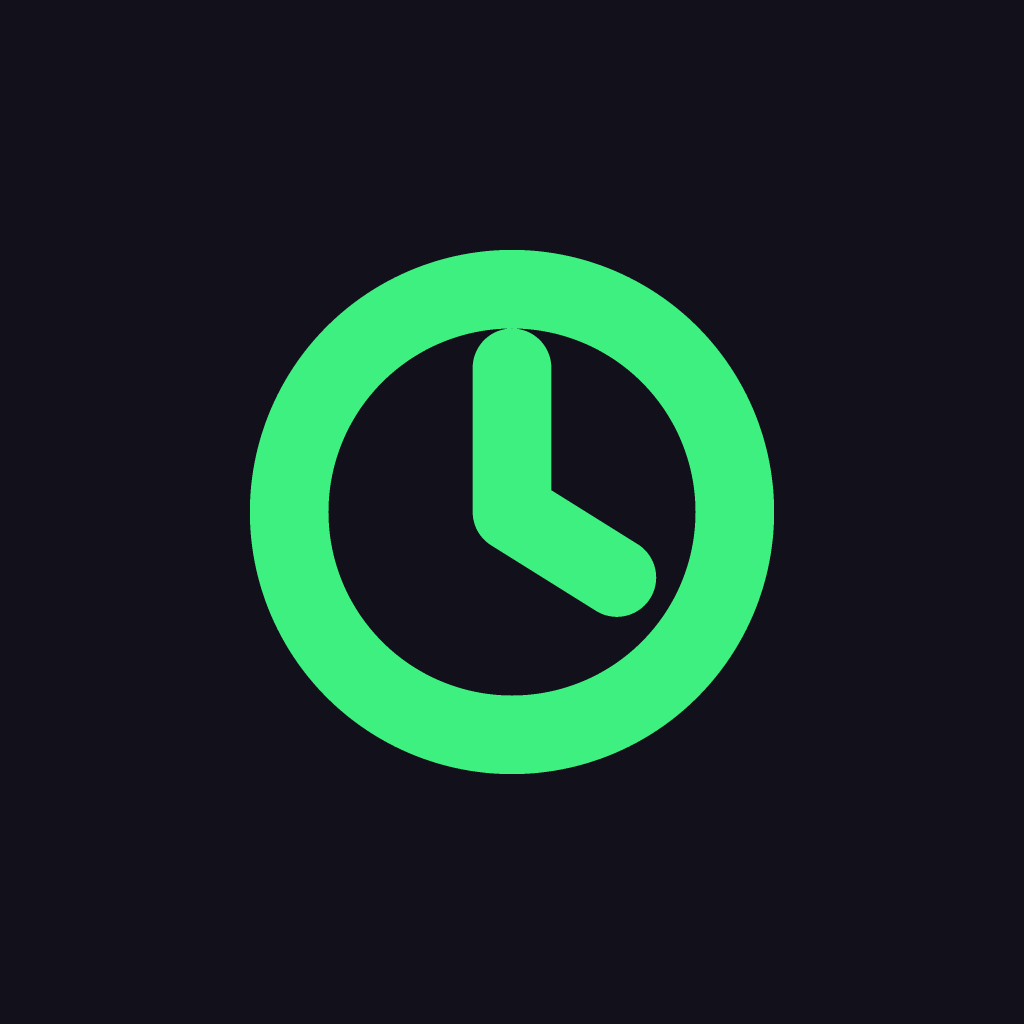
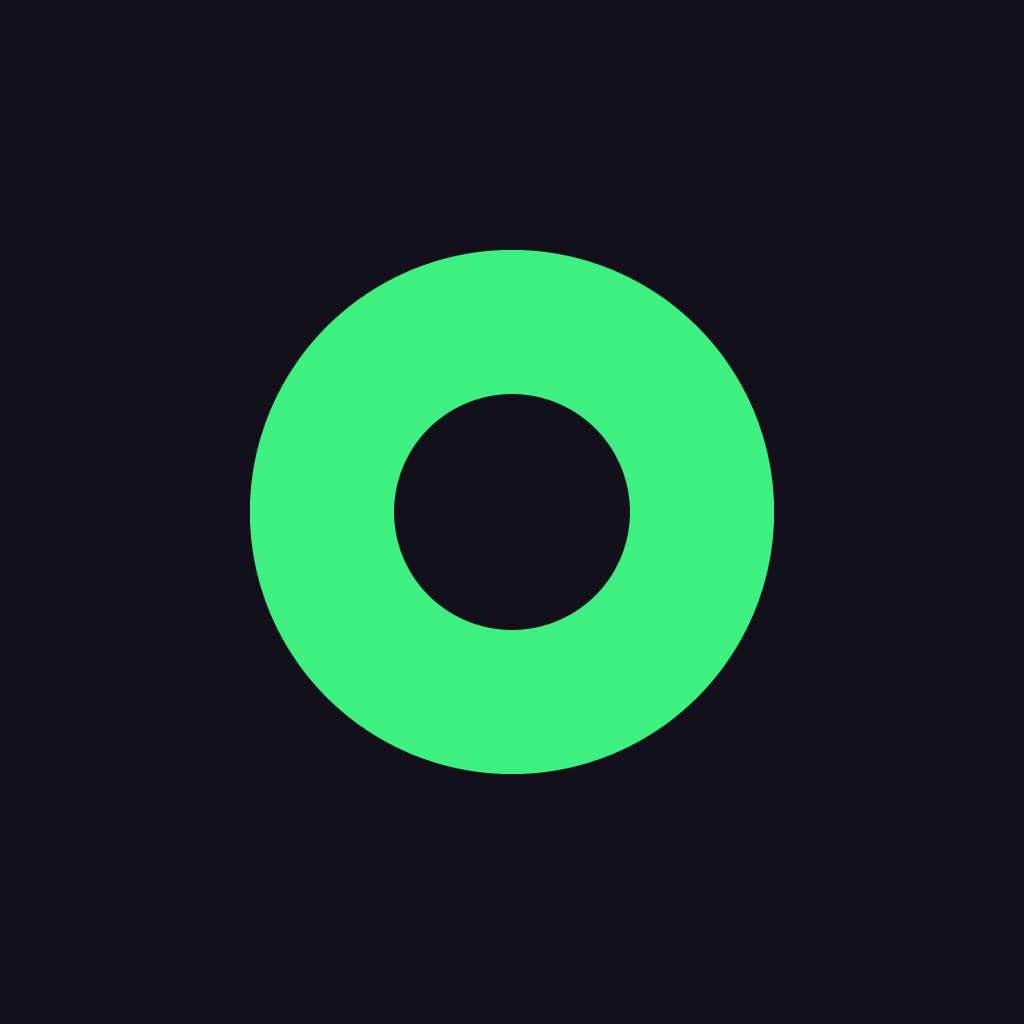
feat: the app mark is a thick ring, like a record button (#73)

Changed region(s): [[0.3125, 0.3125, 0.6875, 0.6875]]

diff --git a/src/app/icons.tsx b/src/app/icons.tsx
@@ -39,15 +39,17 @@ function Glyph({
 }
 
 /**
- * The app mark — a clock face with its two hands, the same shape as the
- * favicon and the install icon, drawn in `currentColor` on nothing.
+ * The app mark — a thick ring with its middle cut out, like a record button,
+ * the same shape as the favicon and the install icon, drawn in
+ * `currentColor` on nothing.
  *
  * The difference from `public/icons/icon.svg` is the point of it: that file
  * paints the mark green on the dark install surface, because an icon's job is
  * to be found on a home screen next to its sibling apps. This one drops the
  * background and swaps the inks for `currentColor`, so inside the app the mark
  * is whatever the element around it is. Geometry is mirrored by hand into
- * `public/icons/icon.svg` and `scripts/generate-icons.mjs`.
+ * `public/icons/icon.svg`, `scripts/generate-icons.mjs` and the dial's
+ * printing in `Dial.tsx`.
  */
 export function AppMarkIcon({ className }: IconProps) {
   return (
@@ -58,13 +60,7 @@ export function AppMarkIcon({ className }: IconProps) {
       aria-hidden="true"
       focusable="false"
     >
-      <circle cx="50" cy="50" r="34" stroke="currentColor" strokeWidth="12" />
-      <path
-        d="M50 50 V28 M50 50 L66 60"
-        stroke="currentColor"
-        strokeWidth="12"
-        strokeLinecap="round"
-      />
+      <circle cx="50" cy="50" r="29" stroke="currentColor" strokeWidth="22" />
     </svg>
   );
 }

diff --git a/src/app/Dial.tsx b/src/app/Dial.tsx
@@ -663,11 +663,9 @@ export function Dial({
           transform={`translate(${C + lockup.markX - 10 * NAME_MARK_SCALE * lockup.scale} ${C - SIGNATURE.name - 50 * NAME_MARK_SCALE * lockup.scale}) scale(${NAME_MARK_SCALE * lockup.scale})`}
           fill="none"
           stroke={face.ink}
-          strokeWidth={12}
-          strokeLinecap="round"
+          strokeWidth={22}
         >
-          <circle cx="50" cy="50" r="34" />
-          <path d="M50 50 V28 M50 50 L66 60" />
+          <circle cx="50" cy="50" r="29" />
         </g>
         <text
           x={C + lockup.textX}

diff --git a/.changes/unreleased/1790940628-ring-mark.md b/.changes/unreleased/1790940628-ring-mark.md
@@ -1,0 +1,6 @@
+---
+type: Changed
+title: A simpler app icon
+---
+
+The app's mark is now a single thick green ring, like a record button, on the home screen, in the browser tab, on the desktop and under twelve on the dial.
